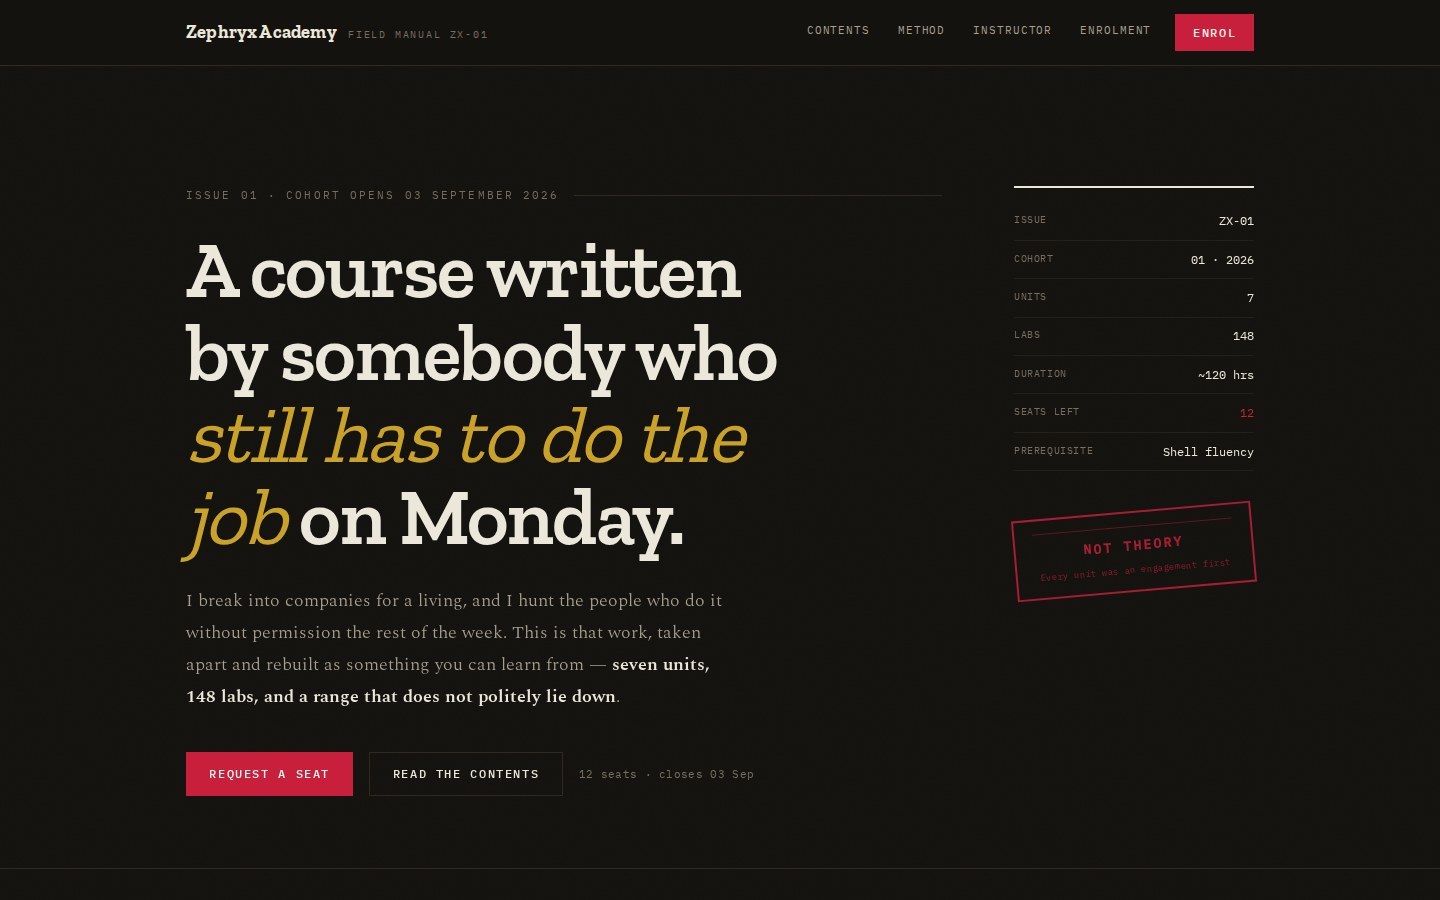
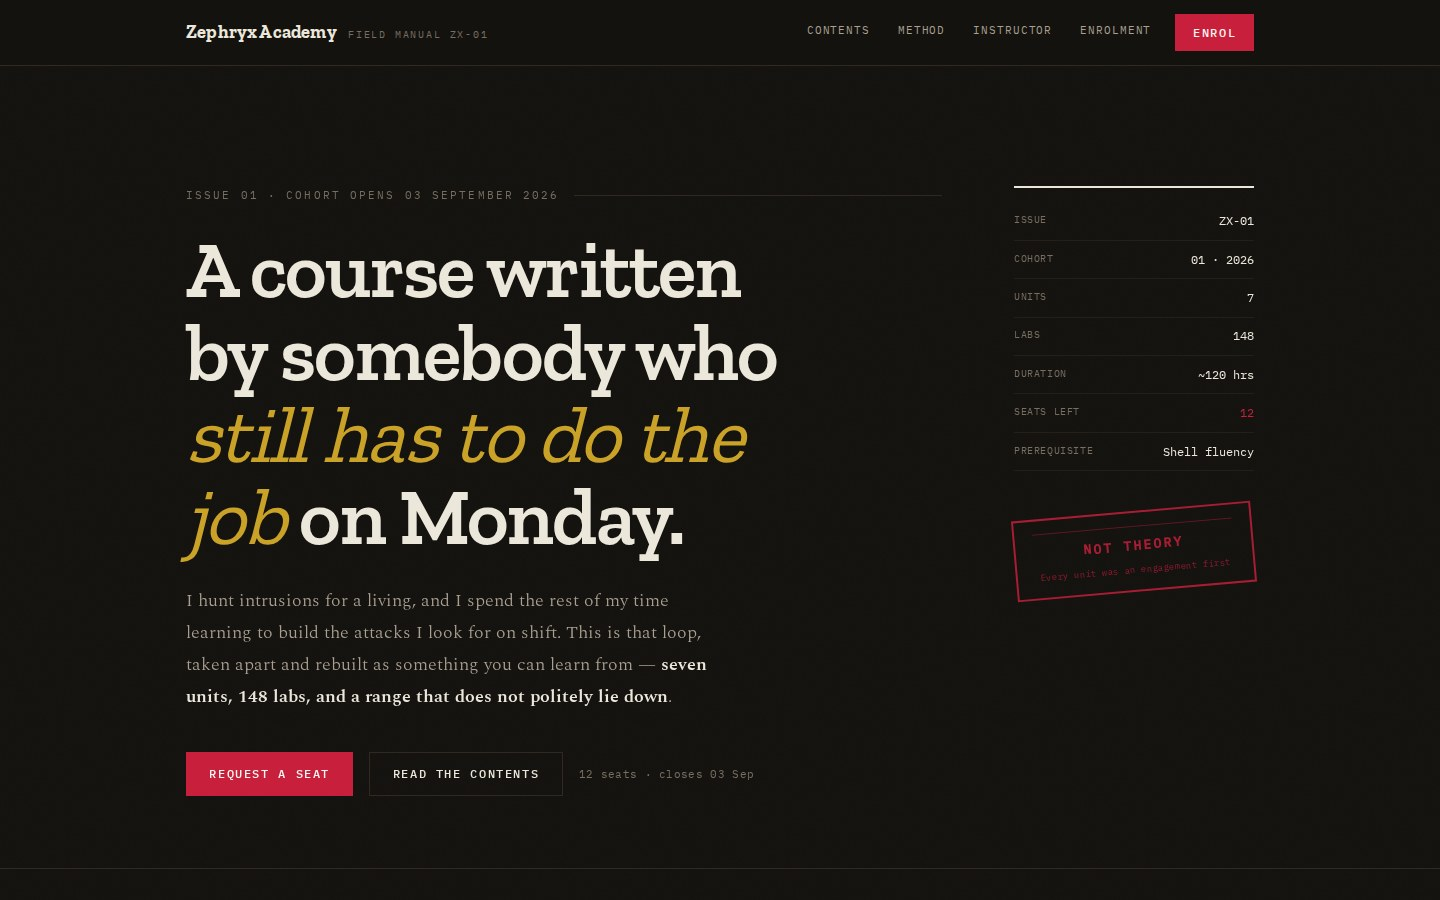
Finish the repositioning sweep across the rest of the site
The previous commit fixed the identity fields; this covers everywhere else
that still assumed offensive work was the profession.

- page.tsx: the Adversary Emulation card opened "This is the actual job
  most of the time: get hired to act like a real threat actor against a
  client's environment" — rewritten, and the three capability cards
  reordered so the SOC work leads and the offensive cards follow as what
  they are. The AD card no longer implies client environments.
- page.tsx + opengraph-image.tsx: "AVAILABLE FOR RED TEAM ENGAGEMENTS" is
  now "AVAILABLE FOR OFFENSIVE SECURITY WORK". Still a solicitation, minus
  the seniority claim. The OG image has to match the page it represents.
- whoami: the ethics blurb read "what I do for a living is just a different
  word for the same crime", which only parses when the living is offensive.
  Now scoped to the offensive half.
- layout.tsx: knowsAbout and keywords reordered to lead with threat hunting
  and detection engineering, plus sigma rules and purple team added. The
  red-team terms stay — they're accurate, just no longer first.
- Footer ticker gained THREAT HUNTING; terminal `id` and `uname` now put
  soc/threat-hunt ahead of redteam.

Left alone deliberately: "operator" as generic tradecraft vocabulary in the
writeups, the Windows Backup Operators group, "rules of engagement" as a
term of art, and the engagement references inside published writeups —
[…]

Changed region(s): [[0.125, 0.6533, 0.5, 0.7778]]

diff --git a/design/academy/v1.html b/design/academy/v1.html
@@ -789,11 +789,11 @@ ul { margin: 0; padding: 0; list-style: none; }
         </div>
 
         <p class="lede">
-          I've spent the last few years getting paid to break into companies, then
-          sitting on the SOC side hunting people who did it without permission.
-          Everything in here comes out of that — <strong>real engagement work,
-          rebuilt as labs you can break</strong>. No slide decks read aloud, no
-          theory you'll never use on a Tuesday.
+          My paycheck comes from a SOC, where I hunt the people who got in without
+          permission. The rest of my time goes to learning how they did it.
+          Everything in here comes out of that loop — <strong>attacks rebuilt as
+          labs you can break, and the detection for each one</strong>. No slide
+          decks read aloud, no theory you'll never use on a Tuesday.
         </p>
 
         <div class="cta-row">
@@ -804,7 +804,7 @@ ul { margin: 0; padding: 0; list-style: none; }
         <dl class="stats">
           <div class="stat"><dt>6</dt><dd>tracks</dd></div>
           <div class="stat"><dt>148</dt><dd>hands-on labs</dd></div>
-          <div class="stat"><dt>40+</dt><dd>engagements behind it</dd></div>
+          <div class="stat"><dt>10</dt><dd>detections shipped</dd></div>
           <div class="stat"><dt>∞</dt><dd>lab resets</dd></div>
         </dl>
       </div>
@@ -1068,16 +1068,15 @@ ul { margin: 0; padding: 0; list-style: none; }
             <h2>Taught by someone still doing the work.</h2>
           </div>
           <p>
-            I'm Zephryx. I'm 23, I get paid to break into companies on purpose, and
-            when I'm not doing that I'm on the SOC side as a
-            <strong>threat hunter</strong> looking for the people who broke in
-            without permission.
+            I'm Zephryx. I'm 23, and my paycheck comes from a SOC, where I work as a
+            <strong>threat hunter</strong> looking for the people who got in without
+            permission. The offensive half is what I do the rest of the time.
           </p>
           <p>
-            That second job is the reason this academy exists. Having a foot in the
-            SOC changes how you attack — you learn what actually gets noticed. Most
-            offensive training never tells you that part, so people finish it loud
-            and confident, which is the worst combination on a real engagement.
+            That day job is the reason this academy exists. Sitting in the SOC changes
+            how you attack — you learn what actually gets noticed. Most offensive
+            training never tells you that part, so people finish it loud and
+            confident, which is the worst combination on a real engagement.
           </p>
           <p>
             Everything here is the same material I publish on
@@ -1088,7 +1087,7 @@ ul { margin: 0; padding: 0; list-style: none; }
 
         <div class="creds">
           <div class="cred"><b>150+</b><span>boxes rooted, publicly documented</span><i>writeups</i></div>
-          <div class="cred"><b>40+</b><span>paid red team engagements</span><i>2021 →</i></div>
+          <div class="cred"><b>SOC</b><span>threat hunting, as the day job</span><i>2021 →</i></div>
           <div class="cred"><b>CVEs</b><span>credited in vendor advisories</span><i>arsenal</i></div>
           <div class="cred"><b>Sigma</b><span>rules shipped &amp; tuned in production</span><i>detections</i></div>
           <div class="cred"><b>ATT&amp;CK</b><span>every lab mapped, no exceptions</span><i>coverage</i></div>

diff --git a/src/app/page.tsx b/src/app/page.tsx
@@ -30,24 +30,29 @@ const STATS: ReadonlyArray<{ value: string; label: string; href?: string }> = [
   { value: '∞', label: 'assume breach' },
 ];
 
+/**
+ * Ordered profession first. The SOC work is what the paycheck covers, so it
+ * leads; the offensive cards follow as what they are — research, and the reason
+ * the hunting gets better.
+ */
 const CAPABILITIES = [
   {
-    tag: 'ATK',
-    title: 'Adversary Emulation',
-    body: "This is the actual job most of the time: get hired to act like a real threat actor against a client's environment, start to finish, and map whatever I do back to ATT&CK so the report means something.",
-    items: ['C2 infrastructure & OPSEC', 'Payload development', 'AV / EDR evasion'],
+    tag: 'DEF',
+    title: 'Detection & Hunting',
+    body: "The day job. Hypothesis-driven hunting on a live SOC, then writing the rule for whatever the hunt turned up and tuning it until it stops crying wolf. Most of what I know about attacking, I learned watching attacks land here first.",
+    items: ['Detection engineering', 'Hypothesis-driven hunting', 'Rule tuning & validation'],
   },
   {
     tag: 'AD',
     title: 'Active Directory',
-    body: "Most environments I land in are Windows shops, so most of my time goes here. Kerberos abuse, bad ACLs, delegation nobody remembers configuring, ADCS templates that were never locked down.",
+    body: "Where most of my offensive research goes, because it's where most real intrusions go. Kerberos abuse, bad ACLs, delegation nobody remembers configuring, ADCS templates that were never locked down.",
     items: ['Kerberoasting & delegation', 'ADCS escalation (ESC1-8)', 'BloodHound path analysis'],
   },
   {
-    tag: 'DEF',
-    title: 'Purple Loop',
-    body: "Having a foot in the SOC changes how I attack — I know what actually gets noticed. So I try to leave every engagement with a rule attached, not just a report nobody reads twice.",
-    items: ['Detection engineering', 'Hypothesis-driven hunting', 'Rule tuning & validation'],
+    tag: 'ATK',
+    title: 'Adversary Emulation',
+    body: "Acting like a real threat actor start to finish and mapping it to ATT&CK — then going back to the console to work out how much of it I would actually have caught. That second pass is the whole reason I do the first.",
+    items: ['C2 infrastructure & OPSEC', 'Payload development', 'AV / EDR evasion'],
   },
 ];
 
@@ -68,7 +73,7 @@ export default function HomePage() {
                 <span className="absolute inline-flex h-full w-full animate-ping rounded-full bg-signal opacity-75" />
                 <span className="relative inline-flex h-2 w-2 rounded-full bg-signal" />
               </span>
-              AVAILABLE FOR RED TEAM ENGAGEMENTS
+              AVAILABLE FOR OFFENSIVE SECURITY WORK
             </div>
 
             <p className="mb-4 font-mono text-sm text-ink-dim">

diff --git a/design/academy/v3.html b/design/academy/v3.html
@@ -551,10 +551,10 @@ a { color: inherit; text-decoration: none; }
         <h1>A course written by somebody who <em>still has to do the job</em> on Monday.</h1>
 
         <p class="deck">
-          I break into companies for a living, and I hunt the people who do it without
-          permission the rest of the week. This is that work, taken apart and rebuilt
-          as something you can learn from — <strong>seven units, 148 labs, and a range
-          that does not politely lie down</strong>.
+          I hunt intrusions for a living, and I spend the rest of my time learning to
+          build the attacks I look for on shift. This is that loop, taken apart and
+          rebuilt as something you can learn from — <strong>seven units, 148 labs, and
+          a range that does not politely lie down</strong>.
         </p>
 
         <div class="cta">
@@ -786,13 +786,13 @@ a { color: inherit; text-decoration: none; }
         <div>
           <div class="prose">
             <p>
-              I'm Zephryx. I'm 23. I get paid to break into companies on purpose, and
-              when I'm not doing that I'm on the SOC side as a threat hunter, looking
-              for the people who broke in without permission.
+              I'm Zephryx. I'm 23. My paycheck comes from a SOC, where I work as a
+              threat hunter looking for the people who got in without permission. The
+              offensive half is what I do with the rest of my time.
             </p>
             <p>
-              That second job is why this exists. Having a foot in the SOC changes how
-              you attack — <strong>you learn what actually gets noticed</strong>. Most
+              That day job is why this exists. Sitting in the SOC changes how you
+              attack — <strong>you learn what actually gets noticed</strong>. Most
               offensive training never mentions that, so people finish it loud and
               confident, which is the worst possible combination on a real engagement.
             </p>
@@ -811,7 +811,7 @@ a { color: inherit; text-decoration: none; }
 
         <div class="record">
           <div class="record__k">Record of service</div>
-          <div><b>40+</b><span>paid red team engagements since 2021</span></div>
+          <div><b>SOC</b><span>threat hunting, as the day job since 2021</span></div>
           <div><b>150+</b><span>boxes rooted and publicly written up</span></div>
           <div><b>7</b><span>CVEs credited in vendor advisories</span></div>
           <div><b>148</b><span>labs, every one mapped to ATT&amp;CK</span></div>

diff --git a/design/academy/v2.html b/design/academy/v2.html
@@ -981,10 +981,10 @@ a { color: inherit; text-decoration: none; }
             Still on engagements. Still on shift.
           </h2>
           <p>
-            I'm Zephryx — 23, red team operator by trade, SOC threat hunter the rest
-            of the time. Both halves of that are why the chain is taught the way it
-            is: <strong>I've been on the console watching someone do exactly what I'm
-            teaching you to do</strong>, and I know which phase gets people caught.
+            I'm Zephryx — 23, a SOC threat hunter by profession and an offensive
+            security obsessive the rest of the time. That order is why the chain is
+            taught the way it is: <strong>I've been on the console watching someone do
+            exactly what I'm teaching you</strong>, and I know which phase gets people caught.
           </p>
           <p>
             The material is the same research I publish openly on zephryx.in. What
@@ -994,7 +994,7 @@ a { color: inherit; text-decoration: none; }
         </div>
 
         <div class="figs">
-          <div class="fig fig--a"><b>40+</b><span>paid engagements<br>since 2021</span></div>
+          <div class="fig fig--a"><b>SOC</b><span>threat hunting<br>as the day job</span></div>
           <div class="fig fig--c"><b>150+</b><span>boxes rooted<br>&amp; written up</span></div>
           <div class="fig fig--r"><b>7</b><span>CVEs credited<br>in advisories</span></div>
           <div class="fig"><b>148</b><span>labs, every one<br>mapped to ATT&amp;CK</span></div>

diff --git a/src/app/layout.tsx b/src/app/layout.tsx
@@ -19,11 +19,11 @@ const personLd = {
   jobTitle: SITE.role,
   description: SITE.description,
   knowsAbout: [
-    'Red Teaming',
-    'Adversary Emulation',
     'Threat Hunting',
-    'Active Directory Security',
     'Detection Engineering',
+    'Security Operations',
+    'Active Directory Security',
+    'Adversary Emulation',
     'Penetration Testing',
   ],
   sameAs: SOCIALS.map((s) => s.href),
@@ -52,14 +52,15 @@ export const metadata: Metadata = {
   authors: [{ name: SITE.name, url: SITE.url }],
   creator: SITE.name,
   keywords: [
-    'red team',
+    'threat hunting',
+    'detection engineering',
+    'SOC analyst',
+    'sigma rules',
+    'purple team',
     'offensive security',
     'penetration testing',
     'adversary emulation',
-    'threat hunting',
-    'SOC',
     'CTF writeups',
-    'detection engineering',
     'Zephryx',
   ],
   openGraph: {

diff --git a/src/lib/terminal/commands.ts b/src/lib/terminal/commands.ts
@@ -480,7 +480,7 @@ export const COMMANDS: ReadonlyMap<string, Command> = new Map<string, Command>([
       summary: 'System information',
       usage: 'uname [-a]',
       run: () => [
-        out('ZephryxOS 6.6.0-redteam #1 SMP PREEMPT_DYNAMIC x86_64 GNU/Linux'),
+        out('ZephryxOS 6.6.0-purple #1 SMP PREEMPT_DYNAMIC x86_64 GNU/Linux'),
         dim('edge: cloudflare · csp: strict · object-src: none · frame-ancestors: none'),
       ],
     },
@@ -652,7 +652,7 @@ export const COMMANDS: ReadonlyMap<string, Command> = new Map<string, Command>([
       usage: 'id',
       secret: true,
       run: () => [
-        out('uid=1337(zephryx) gid=1337(redteam) groups=1337(redteam),27(soc),4(threat-hunt)'),
+        out('uid=1337(zephryx) gid=1337(soc) groups=1337(soc),27(threat-hunt),4(redteam)'),
       ],
     },
   ],

diff --git a/src/app/whoami/page.tsx b/src/app/whoami/page.tsx
@@ -281,7 +281,7 @@ export default function WhoamiPage() {
           <SectionHeading
             index="05 / ETHICS"
             title="rules I actually stick to"
-            sub="Without these, what I do for a living is just a different word for the same crime. I don't bend on any of them."
+            sub="Without these, the offensive half of this is just a different word for the same crime. I don't bend on any of them."
           />
         </Reveal>
 

diff --git a/src/components/Footer.tsx b/src/components/Footer.tsx
@@ -14,6 +14,7 @@ export default function Footer() {
               <span className="text-signal">● OPERATIONAL</span>
               <span>ASSUME BREACH</span>
               <span className="text-red-blood/70">TTP: T1059 / T1055 / T1548</span>
+              <span>THREAT HUNTING</span>
               <span>DETECTION ENGINEERING</span>
               <span>ADVERSARY EMULATION</span>
               <span className="text-red-blood/70">PURPLE TEAM LOOP</span>

diff --git a/src/app/opengraph-image.tsx b/src/app/opengraph-image.tsx
@@ -78,7 +78,7 @@ export default function OgImage() {
           }}
         >
           <div style={{ width: 9, height: 9, borderRadius: 999, background: '#29d391', display: 'flex' }} />
-          AVAILABLE FOR RED TEAM ENGAGEMENTS
+          AVAILABLE FOR OFFENSIVE SECURITY WORK
         </div>
 
         {/* wordmark */}

diff --git a/design/academy/README.md b/design/academy/README.md
@@ -16,16 +16,18 @@ no network.
 
 ## What's the same in all three
 
-Copy is written in the site's first-person voice, and the numbers are drawn from
-what `zephryx.in` already claims (40+ engagements, 150+ boxes, CVEs credited) so
-nothing here over-promises relative to the main site. Pricing (₹14,900 single /
+Copy is written in the site's first-person voice and follows the same positioning
+as the main site: the SOC work is the profession, the offensive work is what fills
+the rest of the time. Figures are drawn from what `zephryx.in` can actually show
+(published detections, credited CVEs, boxes rooted), so nothing here over-promises
+relative to the main site. There is deliberately no engagement count. Pricing (₹14,900 single /
 ₹64,900 full) and the 12-seat cohort cap are **placeholders** — they're there to
 make the layout real, not because they're decided.
 
 ## What differs, and why it matters
 
 - **V1** reuses the tokens from `src/app/globals.css` verbatim. Pick this if the
-  academy should read as the same operator rather than a separate brand.
+  academy should read as the same person rather than a separate brand.
 - **V2** makes colour mean something: green cleared, amber in progress, red not
   started. That's a real system to maintain, not decoration — the phase state
   appears on the spine, the phase rows, and the coverage matrix, and all three
